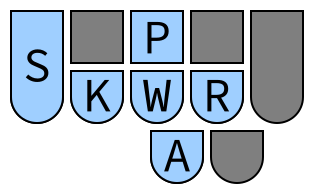
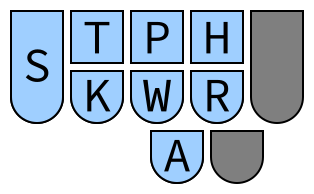
Change modifier strokes

Changed region(s): [[0.6019, 0.0619, 0.7739, 0.3402], [0.2293, 0.0619, 0.4013, 0.3402]]

diff --git a/abby-left-hand-modifiers.py b/abby-left-hand-modifiers.py
@@ -5,19 +5,19 @@ modifiers = [
     "TKPWHR",  # no modifier keys, press key alone
     "KHR",  # ctrl
     "THRA",  # alt
-    "KHRA",  # ctrl alt
+    "TKHRA",  # ctrl alt
     "SH",  # shift
     "SKHR",  # ctrl shift
-    "SHA",  # alt shift
-    "SKHRA",  # ctrl alt shift
+    "STHRA",  # alt shift
+    "STKHRA",  # ctrl alt shift
     "KPWR",  # super
     "KPWHR",  # ctrl super
-    "KPWRA",  # alt super
-    "KPWHRA",  # ctrl alt super
-    "SKPWR",  # shift super
-    "SKPWHR",  # ctrl shift super
-    "SKPWRA",  # alt shift super
-    "SKPWHRA"  # ctrl alt shift super
+    "TKPWHRA",  # alt super
+    "TKPWHRAO",  # ctrl alt super
+    "SKPWHR",  # shift super
+    "SKPWHRO",  # ctrl shift super
+    "STKPWHRA",  # alt shift super
+    "STKPWHRAO"  # ctrl alt shift super
 ]
 
 # list of keys for second stroke

diff --git a/README.md b/README.md
@@ -2,21 +2,23 @@
 
 ## Table Of Contents
 
-- [Design](#Design)
-- [Modifiers](#Modifiers)
-  - [Single modifier keys](#Single-modifier-keys)
-  - [Modifier key combinations](#Modifier-key-combinations)
-- [Keys](#Keys)
-  - [Letters](#Letters)
-  - [Numbers](#Numbers)
-  - [Function Keys](#Function-Keys)
-  - [Numpad](#Numpad)
-  - [Symbol keys](#Symbol-keys)
-  - [Navigation keys](#Navigation-keys)
-  - [Other keys](#Other-keys)
-  - [Only modifiers](#Only-modifiers)
-  - [Cancel](#Cancel)
-- [Examples](#Examples)
+- [Abby's Left Hand Modifiers Dictionary](#abbys-left-hand-modifiers-dictionary)
+  - [Table Of Contents](#table-of-contents)
+  - [Design](#design)
+  - [Modifiers](#modifiers)
+    - [Single modifier keys](#single-modifier-keys)
+    - [Modifier key combinations](#modifier-key-combinations)
+  - [Keys](#keys)
+    - [Letters](#letters)
+    - [Numbers](#numbers)
+    - [Function Keys](#function-keys)
+    - [Numpad](#numpad)
+    - [Symbol keys](#symbol-keys)
+    - [Navigation keys](#navigation-keys)
+    - [Other keys](#other-keys)
+    - [Only modifiers](#only-modifiers)
+    - [Cancel](#cancel)
+  - [Examples](#examples)
 
 ## Design
 
@@ -44,7 +46,7 @@ keypress.
 Patterns for single modifier keys.
 
 | Stroke             | Modifier                | Explanation                          |
-| ---                | ---                     | ---                                  |
+| ------------------ | ----------------------- | ------------------------------------ |
 | ![](img/ctrl.png)  | Control                 | **C**ontro**L**                      |
 | ![](img/alt.png)   | Alt                     | **ALT** (reversed)                   |
 | ![](img/shift.png) | Shift                   | **SH**ift                            |
@@ -52,26 +54,22 @@ Patterns for single modifier keys.
 
 ### Modifier key combinations
 
-The pattern for the alt + shift combination is `SHA`.
+Modifier key combinations are made by stacking the chords for individual
+modifier keys on top of each other, with three exceptions:
 
-| Stroke                 | Modifiers   |
-| ---                    | ---         |
-| ![](img/alt-shift.png) | Alt + Shift |
-
-Combinations using control (but not super) are formed using `KHR` for control
-and adding `A` for alt and `S` for shift.
-
-| Stroke                      | Modifiers          |
-| ---                         | ---                |
-| ![](img/ctrl-alt.png)       | Ctrl + Alt         |
-| ![](img/ctrl-shift.png)     | Ctrl + Shift       |
-| ![](img/ctrl-alt-shift.png) | Ctrl + Alt + Shift |
-
-Combinations using super are formed using `KPWR` for super and adding `H` for
-control, `A` for alt, and `S` for shift.
+- The Ctrl + Alt + Super combination is given `TKPWHRAO`, with an additional `O`
+due to a conflict with `TKPWHRA` for Alt + Super.
+- The Ctrl + Shift + Super combination is given `SKPWHRO`, with an additional
+`O` due to a conflict with `SKPWHR` for Shift + Super.
+- The Ctrl + Alt + Shift + Super combination is given `STKPWHRAO`, with an
+additional `O` due to a conflict with `STKPWHRA` for Alt + Shift + Super.
 
 | Stroke                            | Modifiers                  |
-| ---                               | ---                        |
+| --------------------------------- | -------------------------- |
+| ![](img/alt-shift.png)            | Alt + Shift                |
+| ![](img/ctrl-alt.png)             | Ctrl + Alt                 |
+| ![](img/ctrl-shift.png)           | Ctrl + Shift               |
+| ![](img/ctrl-alt-shift.png)       | Ctrl + Alt + Shift         |
 | ![](img/ctrl-super.png)           | Ctrl + Super               |
 | ![](img/alt-super.png)            | Alt + Super                |
 | ![](img/ctrl-alt-super.png)       | Ctrl + Alt + Super         |
@@ -80,11 +78,11 @@ control, `A` for alt, and `S` for shift.
 | ![](img/alt-shift-super.png)      | Alt + Shift + Super        |
 | ![](img/ctrl-alt-shift-super.png) | Ctrl + Alt + Shift + Super |
 
-The pattern for no modifier keys is `TKPWHR`. This presses a key alone without
-any modifier keys.
+The pattern for no modifier keys is `TKPWHR`. This presses a key specified in
+the second stroke without any additional modifier keys.
 
 | Stroke                    | Modifiers |
-| ---                       | ---       |
+| ------------------------- | --------- |
 | ![](img/no-modifiers.png) | None      |
 
 ## Keys
@@ -100,7 +98,7 @@ special patterns so they fit on the left hand. (Using `E`, `EU`, and `U` for E,
 I, and U still work, but are not shown below.)
 
 | Stroke          | Letter          |
-| ---             | ---             |
+| --------------- | --------------- |
 | ![](img/a.png)  | `A`             |
 | ![](img/b.png)  | `B`             |
 | ![](img/c.png)  | `C`             |
@@ -134,7 +132,7 @@ I, and U still work, but are not shown below.)
 When `AO` is held, `STPH` will act as binary number input for numbers 0-9.
 
 | Stroke         | Number |
-| ---            | ---    |
+| -------------- | ------ |
 | ![](img/0.png) | `0`    |
 | ![](img/1.png) | `1`    |
 | ![](img/2.png) | `2`    |
@@ -151,20 +149,20 @@ When `AO` is held, `STPH` will act as binary number input for numbers 0-9.
 When `R` is held in addition to the pattern for any number 1-12, the
 corresponding function key will be used.
 
-| Stroke           | Number |
-| ---              | ---    |
-| ![](img/f1.png)  | `F1`   |
-| ![](img/f2.png)  | `F2`   |
-| ![](img/f3.png)  | `F3`   |
-| ![](img/f4.png)  | `F4`   |
-| ![](img/f5.png)  | `F5`   |
-| ![](img/f6.png)  | `F6`   |
-| ![](img/f7.png)  | `F7`   |
-| ![](img/f8.png)  | `F8`   |
-| ![](img/f9.png)  | `F9`   |
-| ![](img/f10.png) | `F10`  |
-| ![](img/f11.png) | `F11`  |
-| ![](img/f12.png) | `F12`  |
+| Stroke           | Function Key |
+| ---------------- | ------------ |
+| ![](img/f1.png)  | `F1`         |
+| ![](img/f2.png)  | `F2`         |
+| ![](img/f3.png)  | `F3`         |
+| ![](img/f4.png)  | `F4`         |
+| ![](img/f5.png)  | `F5`         |
+| ![](img/f6.png)  | `F6`         |
+| ![](img/f7.png)  | `F7`         |
+| ![](img/f8.png)  | `F8`         |
+| ![](img/f9.png)  | `F9`         |
+| ![](img/f10.png) | `F10`        |
+| ![](img/f11.png) | `F11`        |
+| ![](img/f12.png) | `F12`        |
 
 ### Numpad
 
@@ -172,7 +170,7 @@ When `*` is held in addition to the pattern for any number, the number key on
 the numpad will instead be used.
 
 | Stroke            | Number       |
-| ---               | ---          |
+| ----------------- | ------------ |
 | ![](img/kp_0.png) | `0` (numpad) |
 | ![](img/kp_1.png) | `1` (numpad) |
 | ![](img/kp_2.png) | `2` (numpad) |
@@ -187,7 +185,7 @@ the numpad will instead be used.
 ### Symbol keys
 
 | Stroke                    | Key | Explanation           |
-| ---                       | --- | ---                   |
+| ------------------------- | --- | --------------------- |
 | ![](img/period.png)       | `.` | **P**e**R**iod        |
 | ![](img/comma.png)        | `,` | **C**o**MM**a         |
 | ![](img/slash.png)        | `/` | **SL**ash             |
@@ -198,14 +196,14 @@ the numpad will instead be used.
 | ![](img/bracketright.png) | `]` | **B**racket **R**ight |
 | ![](img/minus.png)        | `-` | **D**as**H**          |
 | ![](img/equal.png)        | `=` | e**QUA**ls            |
-| ![](img/grave.png)        | `   | **GR**ave             |
+| ![](img/grave.png)        | `ˋ` | **GR**ave             |
 
 ### Navigation keys
 
 Holding down `A` (for **a**rrow) will cause `PKWR` to act as arrow keys.
 
 | Stroke             | Key   |
-| ---                | ---   |
+| ------------------ | ----- |
 | ![](img/up.png)    | Up    |
 | ![](img/down.png)  | Down  |
 | ![](img/left.png)  | Left  |
@@ -215,7 +213,7 @@ Holding down `*` in addition to the stroke for any arrow key will cause the keys
 to act as page up, page down, home, and end.
 
 | Stroke             | Key       |
-| ---                | ---       |
+| ------------------ | --------- |
 | ![](img/prior.png) | Page Up   |
 | ![](img/next.png)  | Page Down |
 | ![](img/home.png)  | Home      |
@@ -224,7 +222,7 @@ to act as page up, page down, home, and end.
 ### Other keys
 
 | Stroke                   | Key          | Explanation                    |
-| ---                      | ---          | ---                            |
+| ------------------------ | ------------ | ------------------------------ |
 | ![](img/caps_lock.png)   | Caps Lock    | **C**aps **L**ock + asterisk   |
 | ![](img/scroll_lock.png) | Scroll Lock  | **SC**roll **L**ock + asterisk |
 | ![](img/num_lock.png)    | Num Lock     | **N**um lock + asterisk        |
@@ -244,7 +242,7 @@ The pattern `TPHO` ("no") allows only modifier keys to be pressed, with no other
 keys included.
 
 | Stroke          | Key  |
-| ---             | ---  |
+| --------------- | ---- |
 | ![](img/no.png) | None |
 
 ### Cancel
@@ -253,16 +251,16 @@ If you pressed a modifier key pattern on accident, you can use `SKPH` to cancel
 it.
 
 | Stroke              | Key    |
-| ---                 | ---    |
+| ------------------- | ------ |
 | ![](img/cancel.png) | Cancel |
 
 ## Examples
 
-| Strokes                                      | Keys Pressed        | Use                             |
-| ---                                          | ---                 | ---                             |
-| ![](img/ctrl.png) ![](img/a.png)             | Ctrl + A            | Select all (Windows or Linux)   |
-| ![](img/super.png) ![](img/a.png)            | Super + A           | Select all (Mac)                |
-| ![](img/alt.png) ![](img/f4.png)             | Alt + F4            | Close window (Windows or Linux) |
-| ![](img/ctrl-alt.png) ![](img/t.png)         | Ctrl + Alt + T      | Open terminal (Linux)           |
-| ![](img/super.png) ![](img/no.png)           | Super (Windows key) | Open start menu (Windows)       |
-| ![](img/no-modifiers.png) ![](img/print.png) | Print Screen        | Take screenshot                 |
+| Strokes                                           | Keys Pressed        | Use                             |
+| ------------------------------------------------- | ------------------- | ------------------------------- |
+| ![](img/ctrl.png)<br />![](img/a.png)             | Ctrl + A            | Select all (Windows or Linux)   |
+| ![](img/super.png)<br />![](img/a.png)            | Super + A           | Select all (Mac)                |
+| ![](img/alt.png)<br />![](img/f4.png)             | Alt + F4            | Close window (Windows or Linux) |
+| ![](img/ctrl-alt.png)<br />![](img/t.png)         | Ctrl + Alt + T      | Open terminal (Linux)           |
+| ![](img/super.png)<br />![](img/no.png)           | Super (Windows key) | Open start menu (Windows)       |
+| ![](img/no-modifiers.png)<br />![](img/print.png) | Print Screen        | Take screenshot                 |
